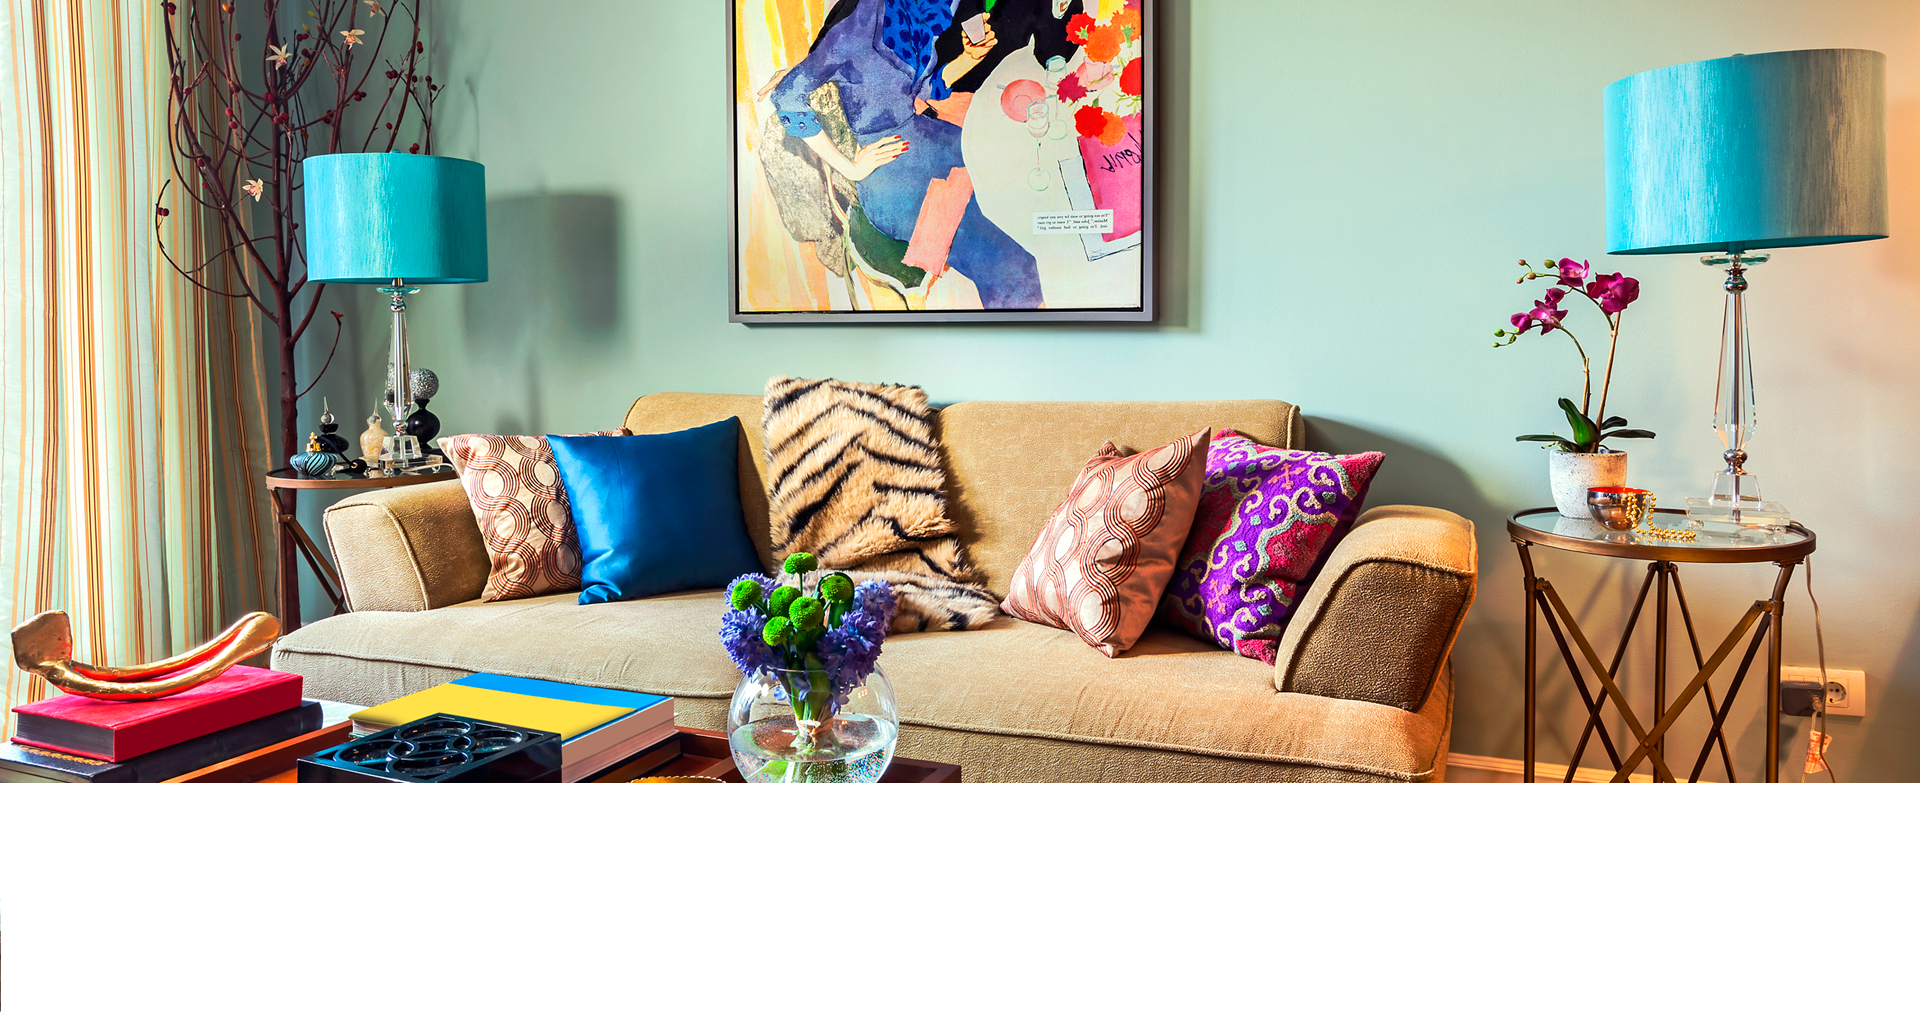
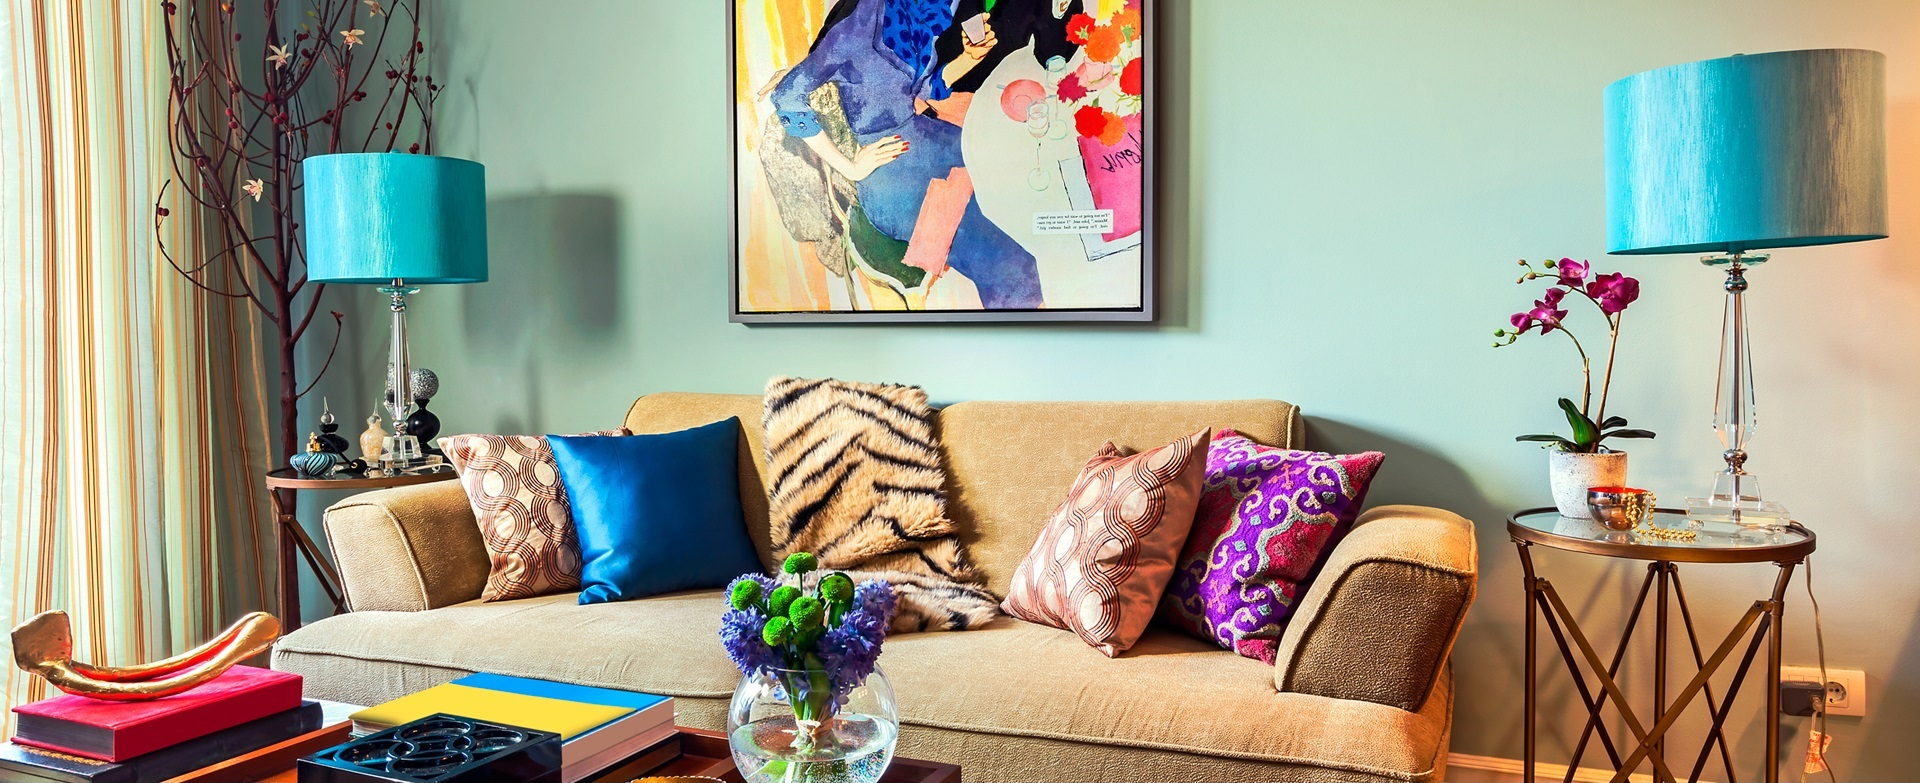
Коммит

diff --git a/app/index.html b/app/index.html
@@ -74,11 +74,9 @@
           <p>Дизайн интерьеров в городе Сургуте</p>
         </div>
         <form class="mini-contact-block col-xs-12 col-sm-5 col-sm-offset-1 col-md-4 col-md-offset-4">
-          <div class="row">
             <a class="mini-contact-block__our-tel col-xs-12" href="tel:+79174502779">+7 917 450-27-79</a>
             <input class="mini-contact-block__tel-input" type="text" placeholder="Введите телефон">
             <input class="mini-contact-block__tel-submit" type="submit" value="Заказать звонок">
-          </div>
         </form>
       </div>
     </div>
@@ -96,7 +94,7 @@
         </div>
       </div>
       <div class="container">
-       <form class="contact-block col-xs-10 col-xs-offset-1 col-sm-6 col-sm-offset-6 col-md-4 col-md-offset-8">
+       <form class="contact-block">
           <p class="contact-block__call-to-action">
             Закажи сейчас и получи
             замеры <b>БЕСПЛАТНО</b>
@@ -109,10 +107,8 @@
       </div>
     </section>
 
-  </main>
-<!--
     <section class="features">
-      <div class="container">
+      <div class="features__wrapper  container">
         <div class="features__item">
           <img src="img/feature-1.svg" width="68">
           <p>Учитываем современные тренды</p>
@@ -139,6 +135,10 @@
         </div>
       </div>
     </section>
+    </main>
+
+    <!--
+
 
     <section class="our-work">
       <div class="container">

diff --git a/app/sass/blocks/_main-offer.scss b/app/sass/blocks/_main-offer.scss
@@ -1,19 +1,26 @@
 .main-offer {
+  display: flex;
+  flex-direction: column;
+
   background-image: url("../img/offer-bg.jpg");
-  background-size: cover;
-  min-height: 824px ;
+  background-position: cover;
+  background-position-y:  bottom;
 
+  padding-bottom: 70px;
   text-align: center;
-
-  position: relative;
-
+  border-bottom: 10px solid #6faede;
 }
 
 .main-offer__offer {
+  position: relative;
   opacity: 0.85;
   background-color: white;
-  padding: 10px;
+
+  border-bottom: 2px solid rgba(0, 0, 0, 0.17);
+
+  margin-bottom: 70px;
 }
+
 
 .main-offer__offer-title {
   font-size: 20px;

diff --git a/app/sass/blocks/_contact-block.scss b/app/sass/blocks/_contact-block.scss
@@ -2,8 +2,11 @@
   display: flex;
   flex-direction: column;
 
-  margin-top: 50px;
+  margin-left: auto;
+
   padding: 37px;
+
+  width: 300px;
 
   background-color: rgba(255, 255, 255, 0.8);;
   border: 1px solid rgba(0, 0, 0, 0.41);
@@ -18,7 +21,7 @@
   font-weight: 400;
   line-height: 18px;
 
-  margin-bottom: 30px;
+
 }
 
 .contact-block__call-to-action b {
@@ -43,10 +46,6 @@
     width: 11px;
     height: 11px;
     @include sprite($name-icon);
-    background-repeat: no-repeat;
-    background-position: center;
-
-    background-color: red;
 
     top: 10px;
     left: 10px;

diff --git a/app/sass/blocks/_features.scss b/app/sass/blocks/_features.scss
@@ -1,0 +1,34 @@
+.features {
+  padding-top: 50px;
+}
+
+.features__wrapper {
+  display: flex;
+  flex-wrap: wrap;
+  justify-content: center;
+}
+
+.features__item {
+  display: flex;
+  align-items: center;
+
+  padding: 35px 0;
+  margin-right: 40px;
+
+  width: 300px;
+
+  color: #181c1e;
+  font-family: "HelveticaNeueCyr";
+  font-size: 18px;
+  font-weight: 400;
+}
+
+.features__item img {
+  margin-right: 20px;
+}
+
+.features__item p {
+
+  padding-right: 30px;
+
+}

diff --git a/app/sass/blocks/_mini-contact-block.scss b/app/sass/blocks/_mini-contact-block.scss
@@ -13,7 +13,6 @@
   text-decoration: none;
   margin-bottom: 20px;
 
-
   &:hover, &:active, &:visited {
     color: #d9d9d9;
     text-decoration: none;
@@ -41,6 +40,7 @@
   box-shadow: inset 0 0 0 rgba(150, 190, 228, 0.38), 0.1px 2px 2px rgba(0, 0, 0, 0.57);
 
   margin-left: -10px;
+  margin-right: 10px;
 }
 
 /* Small Devices, Tablets */

diff --git a/app/sass/main.scss b/app/sass/main.scss
@@ -11,3 +11,4 @@
 @import "blocks/mini-contact-block";
 @import "blocks/main-offer";
 @import "blocks/contact-block";
+@import "blocks/features";
